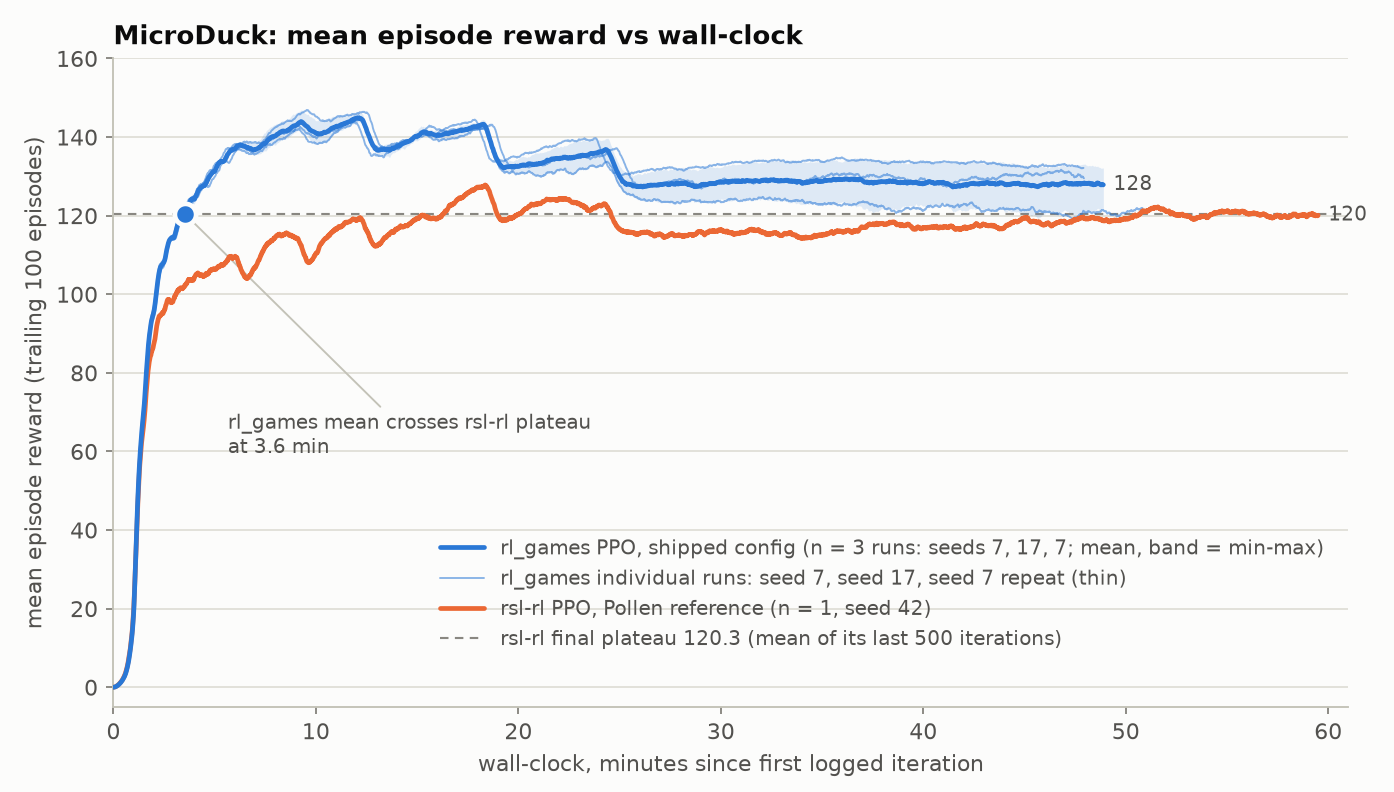
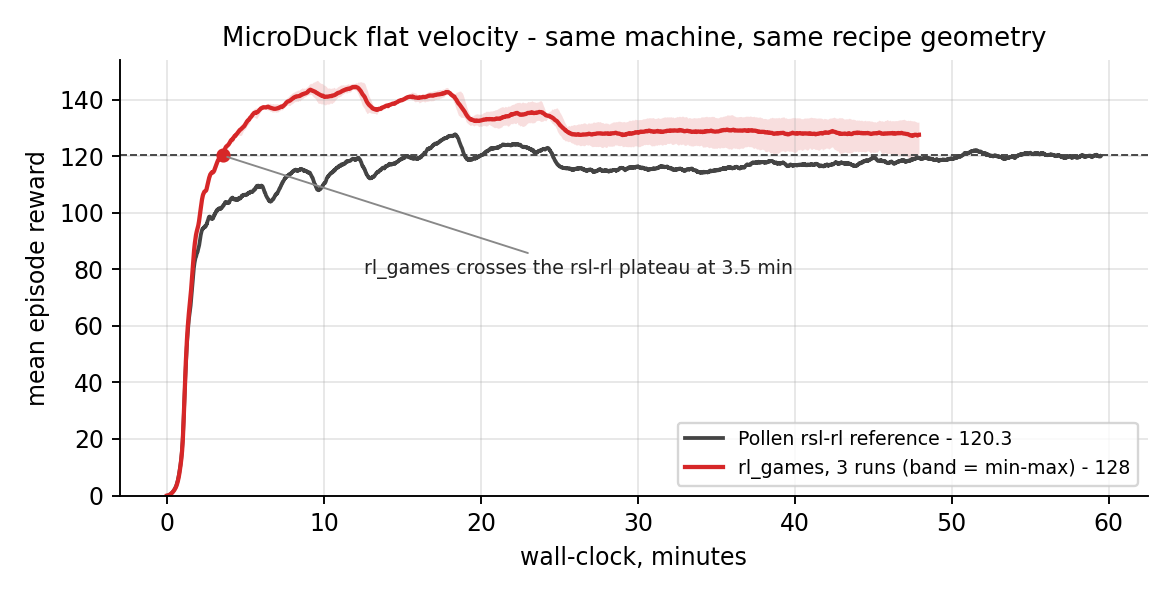
README: historic work first, every clip beside its plot, MicroDuck direction clips with measured speed
Composition after review: the page opens with the work rl_games is known
for, two per row and full width (DeXtreme on the real Allegro hand, DexPBT,
Isaac Gym Shadow Hand and Humanoid, each captioned with its paper), then
four tight "Why rl_games" bullets, then results where each video sits
beside its plot: MicroDuck forward 0.4 m/s beside the wall-clock
comparison, backward 0.4 m/s beside the 1.0 rad/s turn, the speed lane
beside its recipe; Go1 beside its rsl-rl comparison, WujiHand beside its
comparison, the Go1 rough-terrain plot kept; G1 beside its own training
curve; SAC as before. The pitch lists Isaac Lab first and adds vsim.

MicroDuck clips are the shipped config's seed-17 policy under one pinned
command each, rendered with a following camera and an overlay of the
commanded and measured body-frame velocity (0.5 s average): forward 0.4
(0.23 m/s), backward 0.4 (0.22 m/s), turn 1.0 rad/s (1.0 rad/s); the
speed-lane clip is the 0.8 m/s command take (0.40 m/s, no falls). The
comparison plot is redrawn from the TensorBoard logs in the same style as
the Go1 and WujiHand plots, band cut at the shortest of the three runs
(crosses the rsl-rl plateau at 3.5 min, final 128 vs 120.3). G1 gets the
training curve of the run behind its clip. G1 and Go1 gifs re-encoded at
480 px for the two-per-row layout.

Image paths are relative again: the absolute master URLs from #377 made
every new picture a broken image on the branch and in the PR, and GitHub
is the page's primary surface.

diff --git a/README.md b/README.md
@@ -2,7 +2,7 @@
 
 <p align="center"><b>High-performance reinforcement learning for GPU-vectorized simulation.</b><br>
 PPO and SAC in PyTorch, thousands of environments per GPU, multi-GPU training, asymmetric actor-critic, ONNX export.<br>
-Trains directly on <a href="docs/MJLAB.md">MJLab</a>, <a href="https://github.com/isaac-sim/IsaacLab">Isaac Lab</a>, <a href="docs/ENVPOOL.md">EnvPool</a> and <a href="docs/MYOSUITE.md">MyoSuite</a>.</p>
+Trains directly on <a href="https://github.com/isaac-sim/IsaacLab">Isaac Lab</a>, vsim, <a href="docs/MJLAB.md">MJLab</a>, <a href="docs/ENVPOOL.md">EnvPool</a> and <a href="docs/MYOSUITE.md">MyoSuite</a>.</p>
 
 <p align="center">
 <a href="https://pypi.org/project/rl-games/"><img src="https://img.shields.io/pypi/v/rl-games?label=PyPI" alt="PyPI"></a>
@@ -12,29 +12,37 @@ Trains directly on <a href="docs/MJLAB.md">MJLab</a>, <a href="https://github.co
 <a href="https://discord.gg/hnYRq7DsQh"><img src="https://img.shields.io/badge/Discord-join-5865F2?logo=discord&logoColor=white" alt="Discord"></a>
 </p>
 
-<table align="center" width="100%">
+> **2.0.0 (unreleased):** gymnasium only, Python >= 3.11, EnvPool restored (1.2.6 on Python 3.12+, 1.2.5 on 3.11). See [docs/GYMNASIUM_COMPATIBILITY.md](docs/GYMNASIUM_COMPATIBILITY.md) for the API changes.
+
+## Trained with rl_games
+
+<table width="100%">
 <tr>
-<td width="25%" align="center"><img src="https://raw.githubusercontent.com/Denys88/rl_games/master/docs/pictures/mjlab/microduck_speed.gif" width="100%" alt="Pollen MicroDuck biped running at 0.4 m/s, trained with rl_games on MJLab"></td>
-<td width="25%" align="center"><img src="https://raw.githubusercontent.com/Denys88/rl_games/master/docs/pictures/mjlab/g1_velocity.gif" width="100%" alt="Unitree G1 humanoid tracking velocity commands, trained with rl_games on MJLab"></td>
-<td width="25%" align="center"><img src="https://raw.githubusercontent.com/Denys88/rl_games/master/docs/pictures/mjlab/go1_velocity.gif" width="100%" alt="Unitree Go1 quadruped tracking velocity commands, trained with rl_games on MJLab"></td>
-<td width="25%" align="center"><img src="https://raw.githubusercontent.com/Denys88/rl_games/master/docs/pictures/mjlab/wujihand_reorient.gif" width="100%" alt="WujiHand in-hand cube reorientation, trained with rl_games on MJLab"></td>
+<td width="50%" align="center"><img src="https://user-images.githubusercontent.com/463063/216529475-3adeddea-94c3-4ac0-99db-00e7df4ba54b.gif" width="100%" alt="DeXtreme: Allegro hand cube reorientation on the real robot"></td>
+<td width="50%" align="center"><img src="https://github.com/Denys88/rl_games/assets/463063/3c073a0a-69e7-4696-b86f-64c4c1a7e288" width="100%" alt="DexPBT: Allegro hand on a Kuka arm reorienting objects"></td>
 </tr>
 <tr>
-<td align="center"><sub><b>MicroDuck</b> at 0.4 m/s, speed lane</sub></td>
-<td align="center"><sub><b>Unitree G1</b> humanoid</sub></td>
-<td align="center"><sub><b>Unitree Go1</b></sub></td>
-<td align="center"><sub><b>WujiHand</b> reorientation</sub></td>
+<td><b><a href="https://dextreme.org/">DeXtreme</a></b>: Transfer of Agile In-Hand Manipulation from Simulation to Reality (<a href="https://arxiv.org/abs/2210.13702">arXiv</a>). Trained in Isaac Gym with rl_games, deployed on the real Allegro hand.</td>
+<td><b><a href="https://sites.google.com/view/dexpbt">DexPBT</a></b>: Scaling up Dexterous Manipulation for Hand-Arm Systems with Population Based Training (<a href="https://arxiv.org/abs/2305.12127">arXiv</a>). rl_games' population-based training on an Allegro-Kuka system.</td>
+</tr>
+<tr>
+<td width="50%" align="center"><img src="https://user-images.githubusercontent.com/463063/125262637-328e2100-e2b7-11eb-99af-ea546a53f66a.gif" width="100%" alt="Shadow Hand cube reorientation in Isaac Gym"></td>
+<td width="50%" align="center"><img src="https://user-images.githubusercontent.com/463063/125266095-4edf8d00-e2ba-11eb-9c1a-4dc1524adf71.gif" width="100%" alt="Humanoid running in Isaac Gym"></td>
+</tr>
+<tr>
+<td><b><a href="https://arxiv.org/abs/2108.10470">Isaac Gym</a></b>: High Performance GPU-Based Physics Simulation For Robot Learning. Shadow Hand cube reorientation, the OpenAI benchmark, trained in hours on a single GPU.</td>
+<td><b>Isaac Gym</b> Humanoid. The whole benchmark suite trains with rl_games; configs and results for rl_games <= 1.6.5 in <a href="docs/ISAAC_GYM.md">docs/ISAAC_GYM.md</a>.</td>
 </tr>
 </table>
 
-> **2.0.0 (unreleased):** gymnasium only, Python >= 3.11, EnvPool restored (1.2.6 on Python 3.12+, 1.2.5 on 3.11). See [docs/GYMNASIUM_COMPATIBILITY.md](docs/GYMNASIUM_COMPATIBILITY.md) for the API changes.
+Also trained with rl_games: [TriFinger sim-to-real](https://s2r2-ig.github.io/), [DextrAH-RGB](https://dextrah-rgb.github.io/), [Play2Perfect](https://play2perfect.github.io/), [AMP](https://github.com/NVIDIA-Omniverse/IsaacGymEnvs), [OSCAR](https://cremebrule.github.io/oscar-web/). Full list under [papers and projects](#papers-and-projects-using-rl_games).
 
 ## Why rl_games
 
-- **Beats the reference trainers on their own tasks.** Pollen's [MicroDuck](https://github.com/pollen-robotics/microduck_rl) at its own recipe: **128 vs 120** final return, and rl_games crosses the reference's final plateau after **3.6 minutes** where the reference needs 16. MJLab's Go1 flat-velocity task: **86.8 vs 83.2** on the full 10k-iteration protocol. WujiHand in-hand reorientation: **17.1 vs 16.4** goal reaches per episode, and the exported ONNX policy passes the project's sim2sim deployment protocol. Details in [docs/MJLAB.md](docs/MJLAB.md).
-- **SAC that holds up.** Matches or exceeds published reference scores at 1M frames on HalfCheetah, Ant and Humanoid, and keeps improving past the standard budget. [docs/SAC_BENCHMARKS.md](docs/SAC_BENCHMARKS.md)
-- **Built for GPU simulators.** Asymmetric actor-critic with a separate central-value network, RNN policies, Triton GAE, `torch.compile`, DistributedDataParallel multi-GPU, next-step autoreset handling, population-based training, self-play, ONNX export, a live viewer with keyboard command control for MJLab tasks.
-- **A track record.** DeXtreme, DexPBT, TriFinger, AMP, OSCAR, DextrAH-RGB, Play2Perfect and the Isaac Gym benchmark suite were trained with rl_games. See [papers and projects](#papers-and-projects-using-rl_games).
+- **Beats the reference trainers on their own tasks, same machine, same budget.** MicroDuck: 128 vs 120 final return, and their final plateau reached in 3.5 minutes instead of 16. Go1 flat velocity: 86.8 vs 83.2. WujiHand reorientation: 17.1 vs 16.4 goal reaches. Lift-Cube-Yam: success 0.85 vs 0.72.
+- **Built for GPU simulators.** One process drives thousands of environments. Asymmetric actor-critic with a separate central-value critic, RNN policies, Triton GAE, `torch.compile`, DistributedDataParallel multi-GPU, population-based training, self-play, ONNX export, a live viewer with keyboard command control.
+- **Proven in sim-to-real.** DeXtreme, DexPBT, TriFinger, DextrAH-RGB and Play2Perfect trained their policies with rl_games.
+- **SAC too.** Matches or exceeds published reference scores at 1M frames on HalfCheetah, Ant and Humanoid, and keeps improving past that budget.
 
 ## Results
 
@@ -42,31 +50,62 @@ Trains directly on <a href="docs/MJLAB.md">MJLab</a>, <a href="https://github.co
 
 <table width="100%">
 <tr>
-<td width="55%"><img src="https://raw.githubusercontent.com/Denys88/rl_games/master/docs/pictures/mjlab/microduck_comparison_wall.png" width="100%" alt="MicroDuck training reward vs wall-clock: rl_games crosses the rsl-rl plateau at 3.6 minutes and finishes at 128 vs 120"></td>
-<td width="45%" align="center"><img src="https://raw.githubusercontent.com/Denys88/rl_games/master/docs/pictures/mjlab/microduck_velocity.gif" width="100%" alt="MicroDuck walking, turning and sidestepping under pinned velocity commands, shipped config"></td>
+<td width="50%" align="center"><img src="docs/pictures/mjlab/microduck_forward.gif" width="100%" alt="MicroDuck walking forward under a 0.4 m/s command with commanded and measured velocity shown"></td>
+<td width="50%"><img src="docs/pictures/mjlab/microduck_comparison_wall.png" width="100%" alt="MicroDuck training reward vs wall-clock: rl_games crosses the rsl-rl plateau at 3.5 minutes and finishes at 128 vs 120"></td>
 </tr>
 <tr>
-<td><sub>Same environment, reward terms and 4096 x 24 geometry as Pollen's rsl-rl reference. rl_games (3 runs, min-max band) finishes at 128 vs 120.3, and crosses the reference's final plateau at 3.6 min vs 16.3.</sub></td>
-<td align="center"><sub>The shipped config's policy under pinned commands: forward 0.4 m/s, a 1.0 rad/s turn, a 0.3 m/s sidestep.</sub></td>
+<td><b>Forward 0.4 m/s</b>, the shipped config's policy. The overlay shows the commanded and the measured body-frame velocity.</td>
+<td>Same environment, reward terms and 4096 x 24 geometry as Pollen's rsl-rl reference: rl_games (3 runs, min-max band) crosses the reference's final plateau at 3.5 min vs 16.3 and finishes higher.</td>
+</tr>
+<tr>
+<td width="50%" align="center"><img src="docs/pictures/mjlab/microduck_backward.gif" width="100%" alt="MicroDuck walking backward under a 0.4 m/s command"></td>
+<td width="50%" align="center"><img src="docs/pictures/mjlab/microduck_turn.gif" width="100%" alt="MicroDuck turning in place at 1.0 rad/s"></td>
+</tr>
+<tr>
+<td><b>Backward 0.4 m/s</b>, same policy.</td>
+<td><b>Turn in place at 1.0 rad/s</b>: measured 1.0 rad/s.</td>
+</tr>
+<tr>
+<td width="50%" align="center"><img src="docs/pictures/mjlab/microduck_speed.gif" width="100%" alt="MicroDuck speed-lane policy running at 0.4 m/s under a 0.8 m/s command"></td>
+<td><b>Speed lane.</b> A tracking-gated curriculum on the forward command plus a gait term takes the same robot to <b>0.40 m/s body-frame speed</b> with no falls, against 0.23 m/s for the shipped recipe and Pollen's reference policy at their 0.4 m/s command. Recipe and provenance in <a href="docs/MJLAB.md#microduck-flat-velocity">docs/MJLAB.md</a>.</td>
 </tr>
 </table>
 
-The speed lane pushes the same robot further: a tracking-gated curriculum on the forward command plus a gait term takes the duck to **0.39 m/s body-frame speed** at 0.8 to 1.0 m/s commands with no falls (hero clip above), against 0.25 m/s for the shipped recipe at its 0.4 m/s command and 0.23 m/s for Pollen's deployed policy. Config, recipe and the campaign notes are in [docs/MJLAB.md](docs/MJLAB.md#microduck-flat-velocity).
-
-### MJLab locomotion and manipulation
+### Unitree Go1 and WujiHand on MJLab
 
 <table width="100%">
 <tr>
-<td width="50%"><img src="https://raw.githubusercontent.com/Denys88/rl_games/master/docs/pictures/mjlab/go1_flat_comparison_5000.png" width="100%" alt="Go1 flat velocity: rl_games 97.0 vs mjlab rsl-rl reference 94.0 over the first 5000 iterations"></td>
-<td width="50%"><img src="https://raw.githubusercontent.com/Denys88/rl_games/master/docs/pictures/mjlab/wuji_reorient_comparison.png" width="100%" alt="WujiHand reorientation: rl_games 17.1 vs rsl-rl fork 16.4 goal reaches per episode"></td>
+<td width="50%" align="center"><img src="docs/pictures/mjlab/go1_velocity.gif" width="100%" alt="Unitree Go1 tracking velocity commands: 1.0 m/s, a 0.7 rad/s turn, 1.5 m/s"></td>
+<td width="50%"><img src="docs/pictures/mjlab/go1_flat_comparison_5000.png" width="100%" alt="Go1 flat velocity: rl_games 97.0 vs mjlab rsl-rl reference 94.0 over the first 5000 iterations"></td>
 </tr>
 <tr>
-<td><sub><b>Go1 flat velocity</b> vs mjlab's rsl-rl reference, first 5000 of 10k iterations: 97.0 vs 94.0; final 86.8 vs 83.2 after the stage-2 command range opens.</sub></td>
-<td><sub><b>WujiHand reorientation</b> (<a href="https://github.com/wuji-technology/wuji-mjlab">wuji-mjlab</a>), unmodified task: 17.1 vs 16.4 goal reaches per episode.</sub></td>
+<td><b>Go1 flat velocity</b>, the shipped config's policy: 1.0 m/s, a 0.7 rad/s turn, then 1.5 m/s (1.1 m/s achieved).</td>
+<td>Against mjlab's rsl-rl reference, first 5000 of 10k iterations: 97.0 vs 94.0; final 86.8 vs 83.2 after the stage-2 command range opens.</td>
 </tr>
 <tr>
-<td width="50%"><img src="https://raw.githubusercontent.com/Denys88/rl_games/master/docs/pictures/mjlab/go1_rough_training.png" width="100%" alt="Go1 rough terrain: central value network reaches about 60 reward vs about 45 without it"></td>
-<td><sub><b>Go1 rough terrain</b>: the asymmetric central-value critic on the privileged observation group lifts the reward from about 45 to about 60. The same recipe trains the G1 humanoid (hero clip) and Lift-Cube-Yam manipulation (episode success 0.85 vs 0.72 for the reference). Recipes, configs and the live viewer are documented in <a href="docs/MJLAB.md">docs/MJLAB.md</a>.</sub></td>
+<td width="50%" align="center"><img src="docs/pictures/mjlab/wujihand_reorient.gif" width="100%" alt="WujiHand in-hand cube reorientation"></td>
+<td width="50%"><img src="docs/pictures/mjlab/wuji_reorient_comparison.png" width="100%" alt="WujiHand reorientation: rl_games 17.1 vs rsl-rl fork 16.4 goal reaches per episode"></td>
+</tr>
+<tr>
+<td><b>WujiHand in-hand reorientation</b> (<a href="https://github.com/wuji-technology/wuji-mjlab">wuji-mjlab</a>), unmodified task; the exported ONNX policy passes the project's sim2sim deployment protocol.</td>
+<td>17.1 vs 16.4 goal reaches per episode at the same training budget.</td>
+</tr>
+<tr>
+<td width="50%"><img src="docs/pictures/mjlab/go1_rough_training.png" width="100%" alt="Go1 rough terrain: central value network reaches about 60 reward vs about 45 without it"></td>
+<td><b>Go1 rough terrain.</b> The asymmetric central-value critic on the privileged observation group lifts the reward from about 45 to about 60. The same recipe trains Lift-Cube-Yam manipulation to 0.85 episode success vs 0.72 for the reference. Recipes, configs and the live viewer: <a href="docs/MJLAB.md">docs/MJLAB.md</a>.</td>
+</tr>
+</table>
+
+### Unitree G1 humanoid on MJLab
+
+<table width="100%">
+<tr>
+<td width="50%" align="center"><img src="docs/pictures/mjlab/g1_velocity.gif" width="100%" alt="Unitree G1 humanoid walking toward the camera at 1.0 m/s and turning"></td>
+<td width="50%"><img src="docs/pictures/mjlab/g1_flat_training_8k.png" width="100%" alt="G1 flat velocity training reward over 10k iterations at 8192 envs on two GPUs"></td>
+</tr>
+<tr>
+<td><b>G1 flat velocity</b>: 1.0 m/s (1.05 achieved), a 0.5 rad/s turn, 0.8 m/s, no falls. 8192 environments on two GPUs with DistributedDataParallel.</td>
+<td>Training reward of that run; the clip is the iteration-4959 checkpoint. Humanoid reward is a poor proxy for walking, so the G1 config is documented by behaviour rather than by a reward comparison.</td>
 </tr>
 </table>
 
@@ -74,8 +113,8 @@ The speed lane pushes the same robot further: a tracking-gated curriculum on the
 
 <table width="100%">
 <tr>
-<td width="30%" align="center"><img src="https://raw.githubusercontent.com/Denys88/rl_games/master/docs/pictures/sac/humanoid_v5_5M.gif" width="240" alt="Humanoid-v5 running, trained with rl_games SAC"></td>
-<td width="70%"><img src="https://raw.githubusercontent.com/Denys88/rl_games/master/docs/pictures/sac/humanoid_v5_5M.png" width="100%" alt="Humanoid-v5 SAC training curve to 5M frames reaching 7,066 against the 1M reference band"></td>
+<td width="30%" align="center"><img src="docs/pictures/sac/humanoid_v5_5M.gif" width="240" alt="Humanoid-v5 running, trained with rl_games SAC"></td>
+<td width="70%"><img src="docs/pictures/sac/humanoid_v5_5M.png" width="100%" alt="Humanoid-v5 SAC training curve to 5M frames reaching 7,066 against the 1M reference band"></td>
 </tr>
 </table>
 
@@ -86,25 +125,6 @@ The speed lane pushes the same robot further: a tracking-gated curriculum on the
 | Humanoid | 5,195 ± 198 | 5,044 ± 390 |
 
 Humanoid keeps improving past the 1M-frame budget: a single run extended to 5M frames reaches **7,066**, about 40% above the reference mean. Full table, plots and reproduction in [docs/SAC_BENCHMARKS.md](docs/SAC_BENCHMARKS.md).
-
-### Isaac Gym era (rl_games <= 1.6.5)
-
-<table width="100%">
-<tr>
-<td width="25%" align="center"><img src="https://user-images.githubusercontent.com/463063/216529475-3adeddea-94c3-4ac0-99db-00e7df4ba54b.gif" width="100%" alt="DeXtreme: Allegro hand cube reorientation on the real robot"></td>
-<td width="25%" align="center"><img src="https://github.com/Denys88/rl_games/assets/463063/3c073a0a-69e7-4696-b86f-64c4c1a7e288" width="100%" alt="DexPBT: Allegro hand on a Kuka arm"></td>
-<td width="25%" align="center"><img src="https://user-images.githubusercontent.com/463063/125262637-328e2100-e2b7-11eb-99af-ea546a53f66a.gif" width="100%" alt="Shadow Hand cube reorientation in Isaac Gym"></td>
-<td width="25%" align="center"><img src="https://user-images.githubusercontent.com/463063/125266095-4edf8d00-e2ba-11eb-9c1a-4dc1524adf71.gif" width="100%" alt="Humanoid running in Isaac Gym"></td>
-</tr>
-<tr>
-<td align="center"><sub><a href="https://dextreme.org/">DeXtreme</a>, sim-to-real</sub></td>
-<td align="center"><sub><a href="https://sites.google.com/view/dexpbt">DexPBT</a></sub></td>
-<td align="center"><sub>Shadow Hand</sub></td>
-<td align="center"><sub>Humanoid</sub></td>
-</tr>
-</table>
-
-Isaac Gym is end-of-life; these results and their configs are documented for rl_games <= 1.6.5 in [docs/ISAAC_GYM.md](docs/ISAAC_GYM.md).
 
 ## Environments
 

diff --git a/docs/MJLAB.md b/docs/MJLAB.md
@@ -209,6 +209,8 @@ pose terms alone), which is the trap the paragraph above describes.
 
 ![G1 humanoid velocity tracking](pictures/mjlab/g1_velocity.gif)
 
+![G1 flat velocity training reward, 8192 envs on two GPUs](pictures/mjlab/g1_flat_training_8k.png)
+
 Recipe (both locomotion configs): asymmetric central value on the privileged
 `critic` obs group, same size as the actor net, trained at the full 5 mini-epochs —
 halving CV epochs was tested and rejected (Go1 drops from 97.0 to 92.6; the
@@ -269,15 +271,16 @@ iterations, one seed).
 
 ![MicroDuck: rl_games vs rsl-rl](pictures/mjlab/microduck_comparison.png)
 
-![MicroDuck, shipped config](pictures/mjlab/microduck_velocity.gif)
+![MicroDuck, forward 0.4 m/s](pictures/mjlab/microduck_forward.gif)
 
-The clip is the seed-17 checkpoint of the shipped config under pinned
-commands (forward 0.4 m/s, a 1.0 rad/s turn while walking, a 0.3 m/s
-sidestep), rendered from a camera that follows the robot: measured
-body-frame speed 0.25 m/s at the 0.4 m/s command, 0.92 rad/s at the
-1.0 rad/s command, 0.07 m/s at the 0.3 m/s sidestep command. Forward and
-yaw track at roughly two thirds of the command, lateral is the weak axis.
-No falls in the take.
+The clips (here and in the README) are the seed-17 checkpoint of the
+shipped config under one pinned command each, rendered from a camera that
+follows the robot, with the commanded and the measured body-frame velocity
+(0.5 s average) drawn on the frame. Measured: forward 0.4 m/s command,
+0.23 m/s; backward 0.4 m/s, 0.22 m/s; turn in place at 1.0 rad/s, 1.0 rad/s;
+sidestep 0.3 m/s, 0.05 m/s. Forward and backward track at just over half
+the command, yaw tracks exactly, lateral is the weak axis. No falls in any
+take.
 
 **Speed lane (research preview).** Same robot, same 61-dimensional
 observation contract, trained on a variant of the task kept in our fork of
@@ -286,11 +289,11 @@ the forward-command cap by 0.1 m/s whenever the rolling median tracking
 error at the current cap drops below 0.15 m/s (coupled with the action-rate
 penalty ramp), a touchdown-stride gait term, and a bilateral
 mirror-consistency loss on the policy, at 16,384 environments for 2,000
-iterations (about 45 minutes). The policy reaches **0.39 m/s body-frame
-speed** at 0.8 and 1.0 m/s commands with no falls, against 0.25 m/s for the
-shipped recipe at its 0.4 m/s command and 0.23 m/s measured for Pollen's
-reference rsl-rl policy at the same 0.4 m/s command in the ported
-simulator. The same clip is the first hero tile of the README.
+iterations (about 45 minutes). The policy reaches **0.40 m/s body-frame
+speed** at a 0.8 m/s command with no falls (0.39 m/s at 1.0 m/s, where an
+occasional fall appears), against 0.23 m/s for the shipped recipe at its
+0.4 m/s command and 0.23 m/s measured for Pollen's reference rsl-rl policy
+at the same 0.4 m/s command in the ported simulator.
 
 ![MicroDuck, speed lane](pictures/mjlab/microduck_speed.gif)
 
